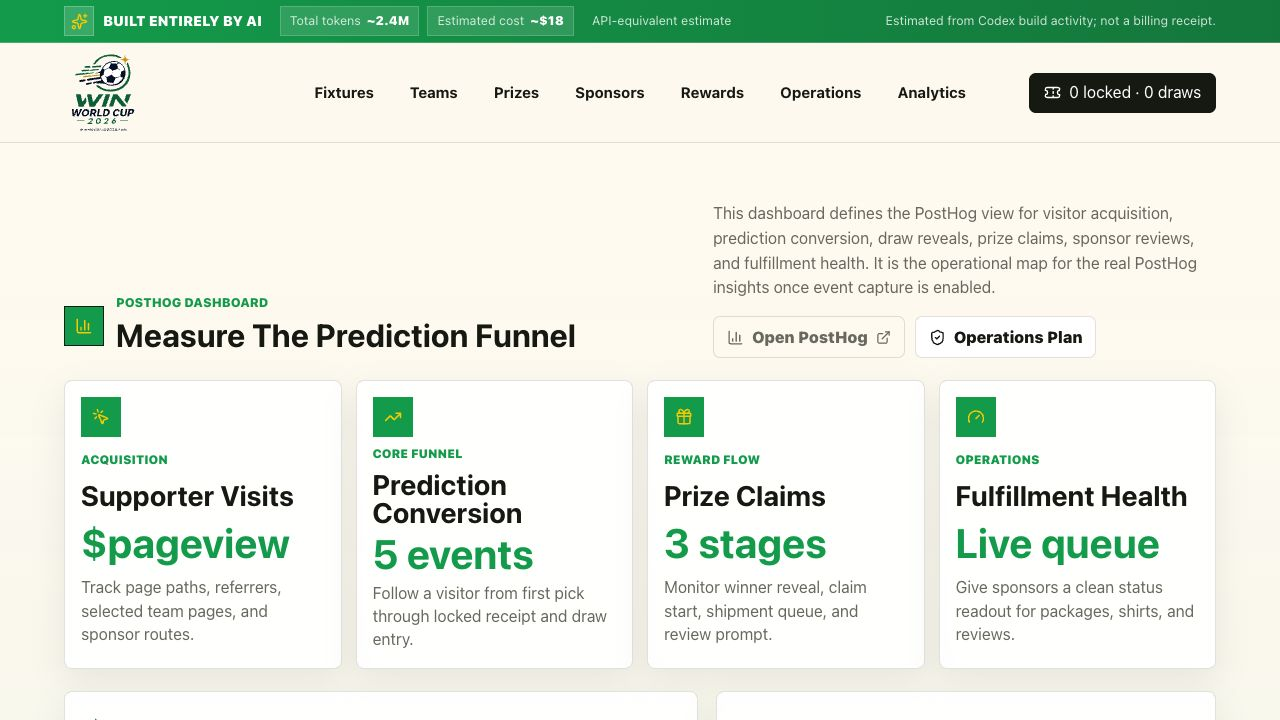
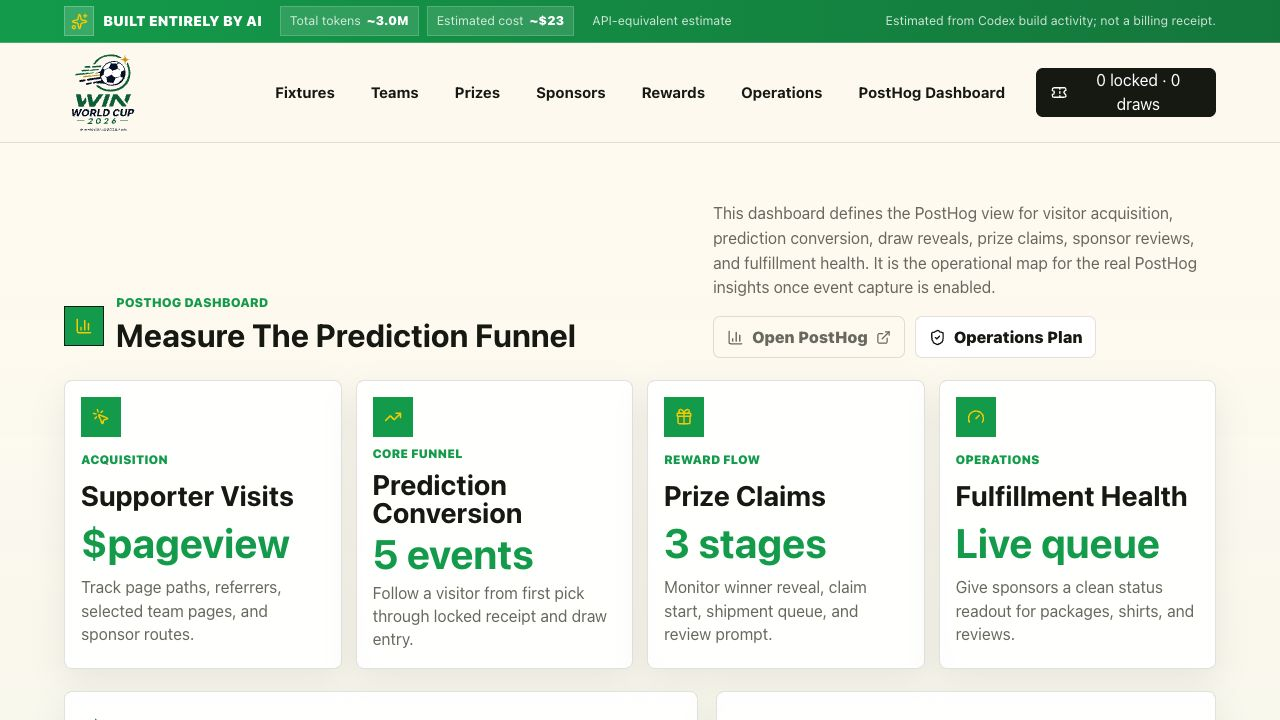
Make PostHog dashboard link explicit

Changed region(s): [[0.2188, 0.0917, 0.9375, 0.1833], [0.4062, 0.0, 0.4375, 0.0306], [0.3438, 0.0, 0.375, 0.0306]]

diff --git a/src/App.tsx b/src/App.tsx
@@ -334,8 +334,8 @@ const sponsorshipAddOns = [
 ]
 
 const aiBuildMetrics = {
-  tokenTotal: '~2.9M',
-  estimatedCost: '~$22',
+  tokenTotal: '~3.0M',
+  estimatedCost: '~$23',
   costLabel: 'API-equivalent estimate',
   note: 'Estimated from Codex build activity; not a billing receipt.',
 } as const
@@ -1714,7 +1714,7 @@ function Topbar({
           <a href="/sponsors">Sponsors</a>
           <a href="/rewards">Rewards</a>
           <a href="/operations">Operations</a>
-          <a href="/posthog">Analytics</a>
+          <a href="/posthog">PostHog Dashboard</a>
         </nav>
         <button className="account-button" type="button">
           <Ticket size={17} />
@@ -2056,7 +2056,7 @@ function SiteFooter() {
         <a href="/prizes">Prizes</a>
         <a href="/sponsors">Sponsors</a>
         <a href="/operations">Operations</a>
-        <a href="/posthog">PostHog</a>
+        <a href="/posthog">PostHog Dashboard</a>
       </nav>
     </footer>
   )

diff --git a/BUILD_BLOG.md b/BUILD_BLOG.md
@@ -258,8 +258,8 @@ The point is to explain the build stack and production path, not to repeat the p
 
 The site now includes a compact notification status bar at the very top of the page, above the logo and main navigation. It says the project was built entirely by AI and shows a public usage estimate:
 
-- estimated total tokens: `~2.9M`
-- estimated API-equivalent cost: `~$22`
+- estimated total tokens: `~3.0M`
+- estimated API-equivalent cost: `~$23`
 
 The banner labels the cost as an estimate because the repository does not contain a complete token-by-token billing export for every Codex, sub-agent, tool, and image generation step. The number is a transparent project estimate, not a billing receipt.
 
@@ -356,6 +356,7 @@ Browser checks have covered:
 - header logo reduced from 98px to 78px below the AI status bar
 - `/posthog` dashboard page with metric cards, funnel steps, event taxonomy, setup checklist, and legacy `#posthog` redirect
 - AI build disclosure estimate refreshed to `~2.9M` total tokens and `~$22` estimated API-equivalent cost
+- PostHog dashboard navigation made explicit in the header and footer
 
 Current visual artifact:
 
@@ -475,9 +476,13 @@ Added `/posthog` as the first PostHog dashboard surface for the product. The pag
 
 The dashboard links to the PostHog app, but it does not send events yet. That boundary is deliberate: the Projects.dev PostHog analytics resource exists, while SDK capture, privacy copy, session replay policy, and final event names still need approval before production tracking begins.
 
-### Current commit - Add token estimate maintenance rule
+### `141afb0` - Add token estimate maintenance rule
 
 Added a maintenance rule that every commit must refresh the public AI build disclosure token total and API-equivalent estimated cost. The current estimate was updated to `~2.9M` total tokens and `~$22` so this commit follows the rule immediately.
+
+### Current commit - Make PostHog dashboard visible
+
+Changed the header and footer navigation labels from generic analytics/PostHog wording to `PostHog Dashboard` so the dashboard route is visible at a glance. The current AI build disclosure estimate was refreshed to `~3.0M` total tokens and `~$23` for this commit.
 
 ## Next Build Steps
 

diff --git a/AGENTS.md b/AGENTS.md
@@ -190,6 +190,7 @@ Logo explorations for `winworldcup2026.com` live in `designs/logos/`. The curren
 - Reduced the active header logo by 20%, from 98px to 78px, and lowered the logo/navigation header row from 120px to 100px.
 - Added a `/posthog` dashboard page with metric cards, prediction funnel steps, event taxonomy, setup checklist, PostHog link, header/footer navigation, and legacy `#posthog` redirect support.
 - Added a working rule to refresh the AI build disclosure token total and estimated cost on every commit, and updated the current estimate to `~2.9M` total tokens and `~$22`.
+- Made the `/posthog` route easier to find by labeling the header and footer links as "PostHog Dashboard" and refreshed the AI build estimate to `~3.0M` total tokens and `~$23`.
 
 ## Verification
 
@@ -239,6 +240,7 @@ Browser verification covered:
 - verifying the smaller 78px logo renders below the AI status bar with the updated 100px navigation row
 - verifying `/posthog` renders four metric cards, six funnel steps, five event groups, five setup items, no horizontal overflow, a working PostHog external link, and legacy `/#posthog` redirect behavior
 - verifying the AI build disclosure renders the refreshed `~2.9M` token total and `~$22` estimated cost with no browser console errors
+- verifying the header and footer both expose "PostHog Dashboard" links to `/posthog`, and the AI build disclosure renders the refreshed `~3.0M` token total and `~$23` estimated cost
 
 Latest screenshot:
 